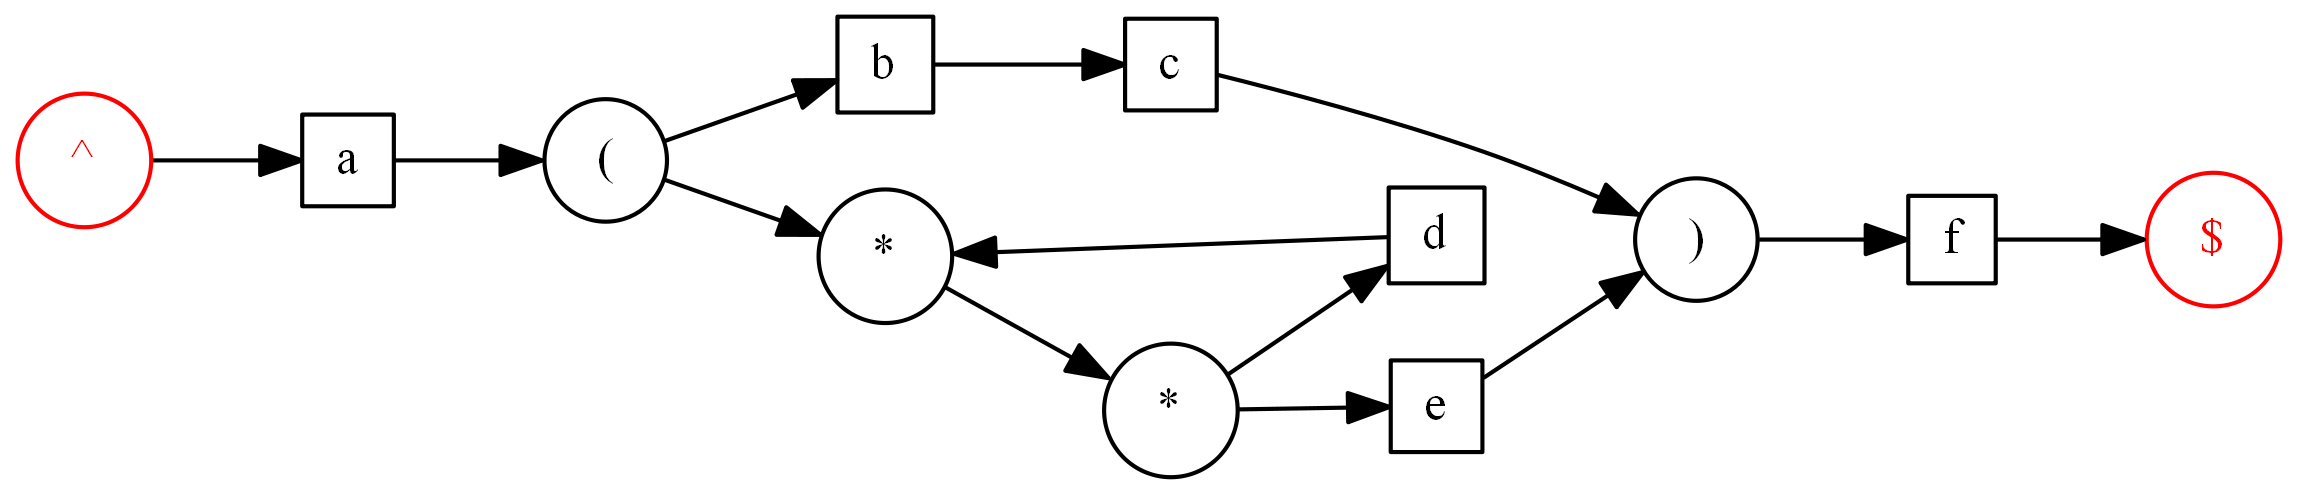
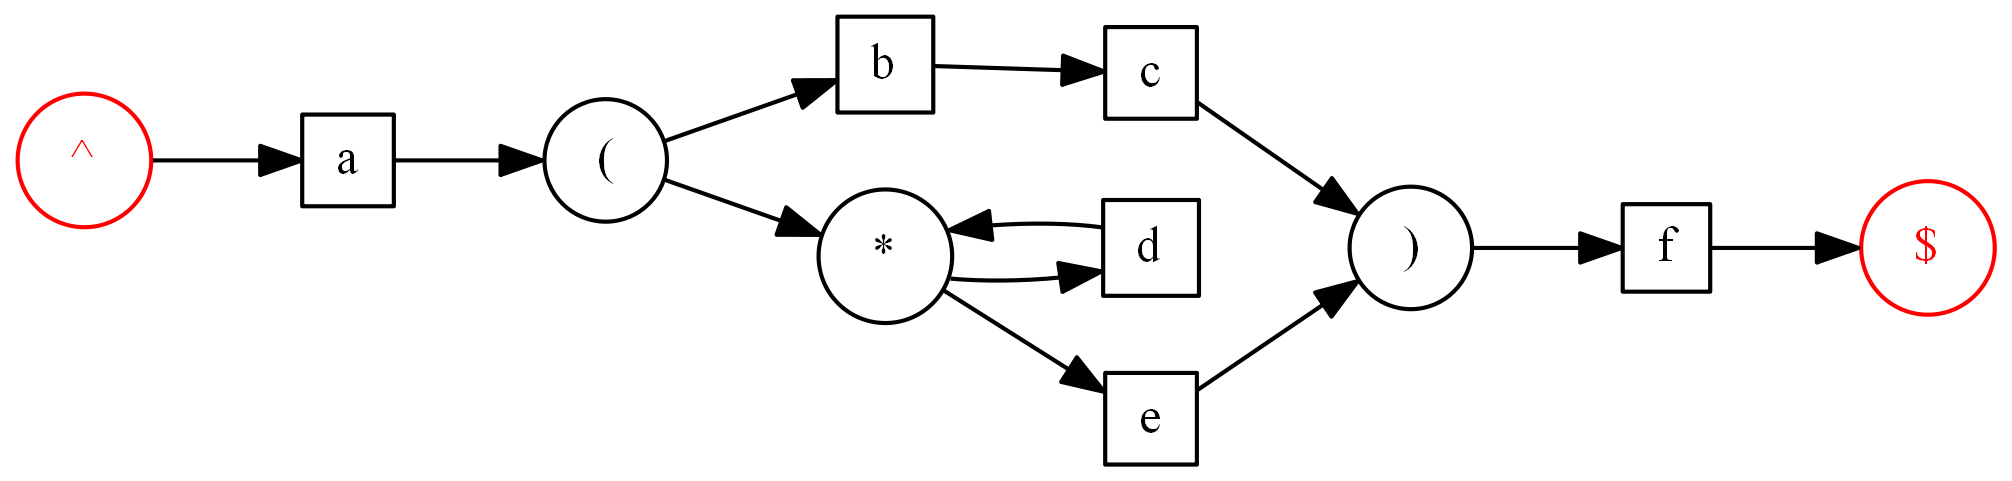
役文字の*のノードを2個から1個に圧縮した

Changed region(s): [[0.0, 0.0, 1.0, 0.9979], [0.4622, 0.9044, 0.493, 0.9356], [0.339, 0.5925, 0.3698, 0.6237]]

diff --git a/src/node.c b/src/node.c
@@ -95,30 +95,22 @@ void regex_to_node_list(/*{{{*/
     (*node_in) = node_current;
     (*node_empty)++;
 
-    node[node_current+1].symbol       = '*';
-    node[node_current+1].symbol_index = regex_next;
-    node[node_current+1].is_magick    = true;
-    (*node_empty)++;
-
     int tmp_in, tmp_out;
     regex_to_node_list(regex_str, regex_begin, regex_next, node, &tmp_in, &tmp_out, node_empty, node_list_size);
-    node[node_current  ].in_snd  = tmp_out;
-    node[node_current  ].out_fst = node_current+1;
-
-    node[node_current+1].in_fst  = node_current;
-    node[node_current+1].out_snd = tmp_in;
-
-    node[tmp_in ].in_fst         = node_current+1;
+    node[node_current].in_snd  = tmp_out;
+    node[node_current].out_fst = node_current;
+    node[node_current].out_snd = tmp_in;
+    node[tmp_in ].in_fst         = node_current;
     node[tmp_out].out_fst        = node_current;
 
     if (regex_next+1 < regex_end) {
       regex_to_node_list(regex_str, regex_next+1, regex_end, node, &tmp_in, &tmp_out, node_empty, node_list_size);
-      node[node_current+1].out_fst = tmp_in;
-      node[tmp_in].in_fst = node_current+1;
+      node[node_current].out_fst = tmp_in;
+      node[tmp_in].in_fst = node_current;
       (*node_out) = tmp_out;
 
     } else {
-      (*node_out) = node_current+1;
+      (*node_out) = node_current;
     }
 
   // 次の文字が {'*'以外 or 存在しない} で、現在の文字が普通のアルファベットの場合
